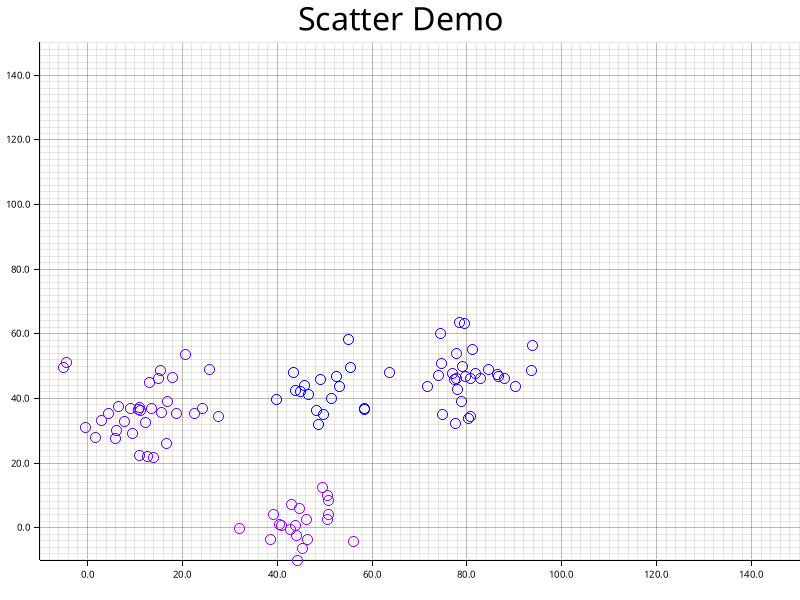
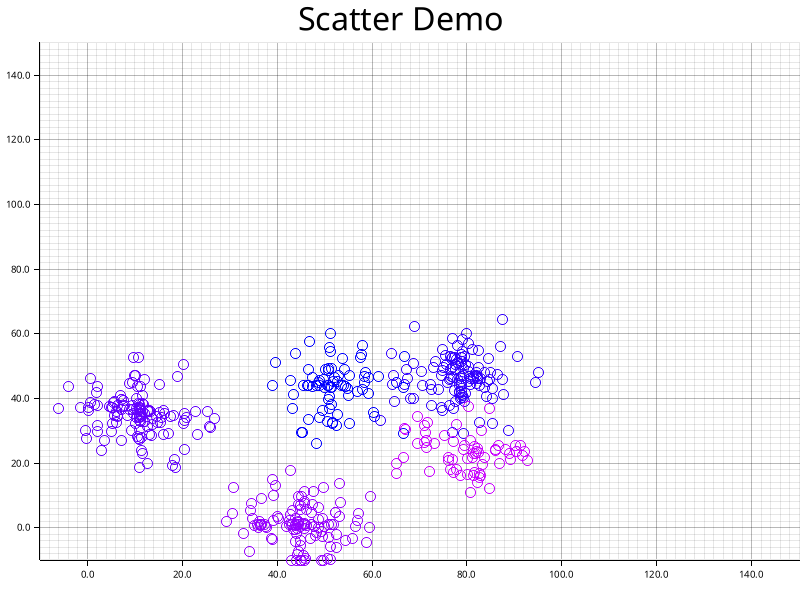
tested new results for diferent seeds

diff --git a/src/main.rs b/src/main.rs
@@ -3,13 +3,14 @@ use crate::core::NumericDataset;
 mod core;
 mod draw;
 
-const SHAPE: [usize; 2] = [100, 2];
-const CLASSES: usize = 4;
+const SHAPE: [usize; 2] = [500, 2];
+const CLASSES: usize = 5;
+const SEED: u128 = 1;
 
 fn main() {
     // if a main thread ends, all other threads end!
     let dataset: NumericDataset;
-    dataset = NumericDataset::sample(SHAPE, CLASSES);
+    dataset = NumericDataset::sample(SHAPE, CLASSES, SEED);
 
     let (x, y, target_vec) = draw::arrange_points(&dataset, &SHAPE);
     draw::scatter_template(x, y, target_vec);
